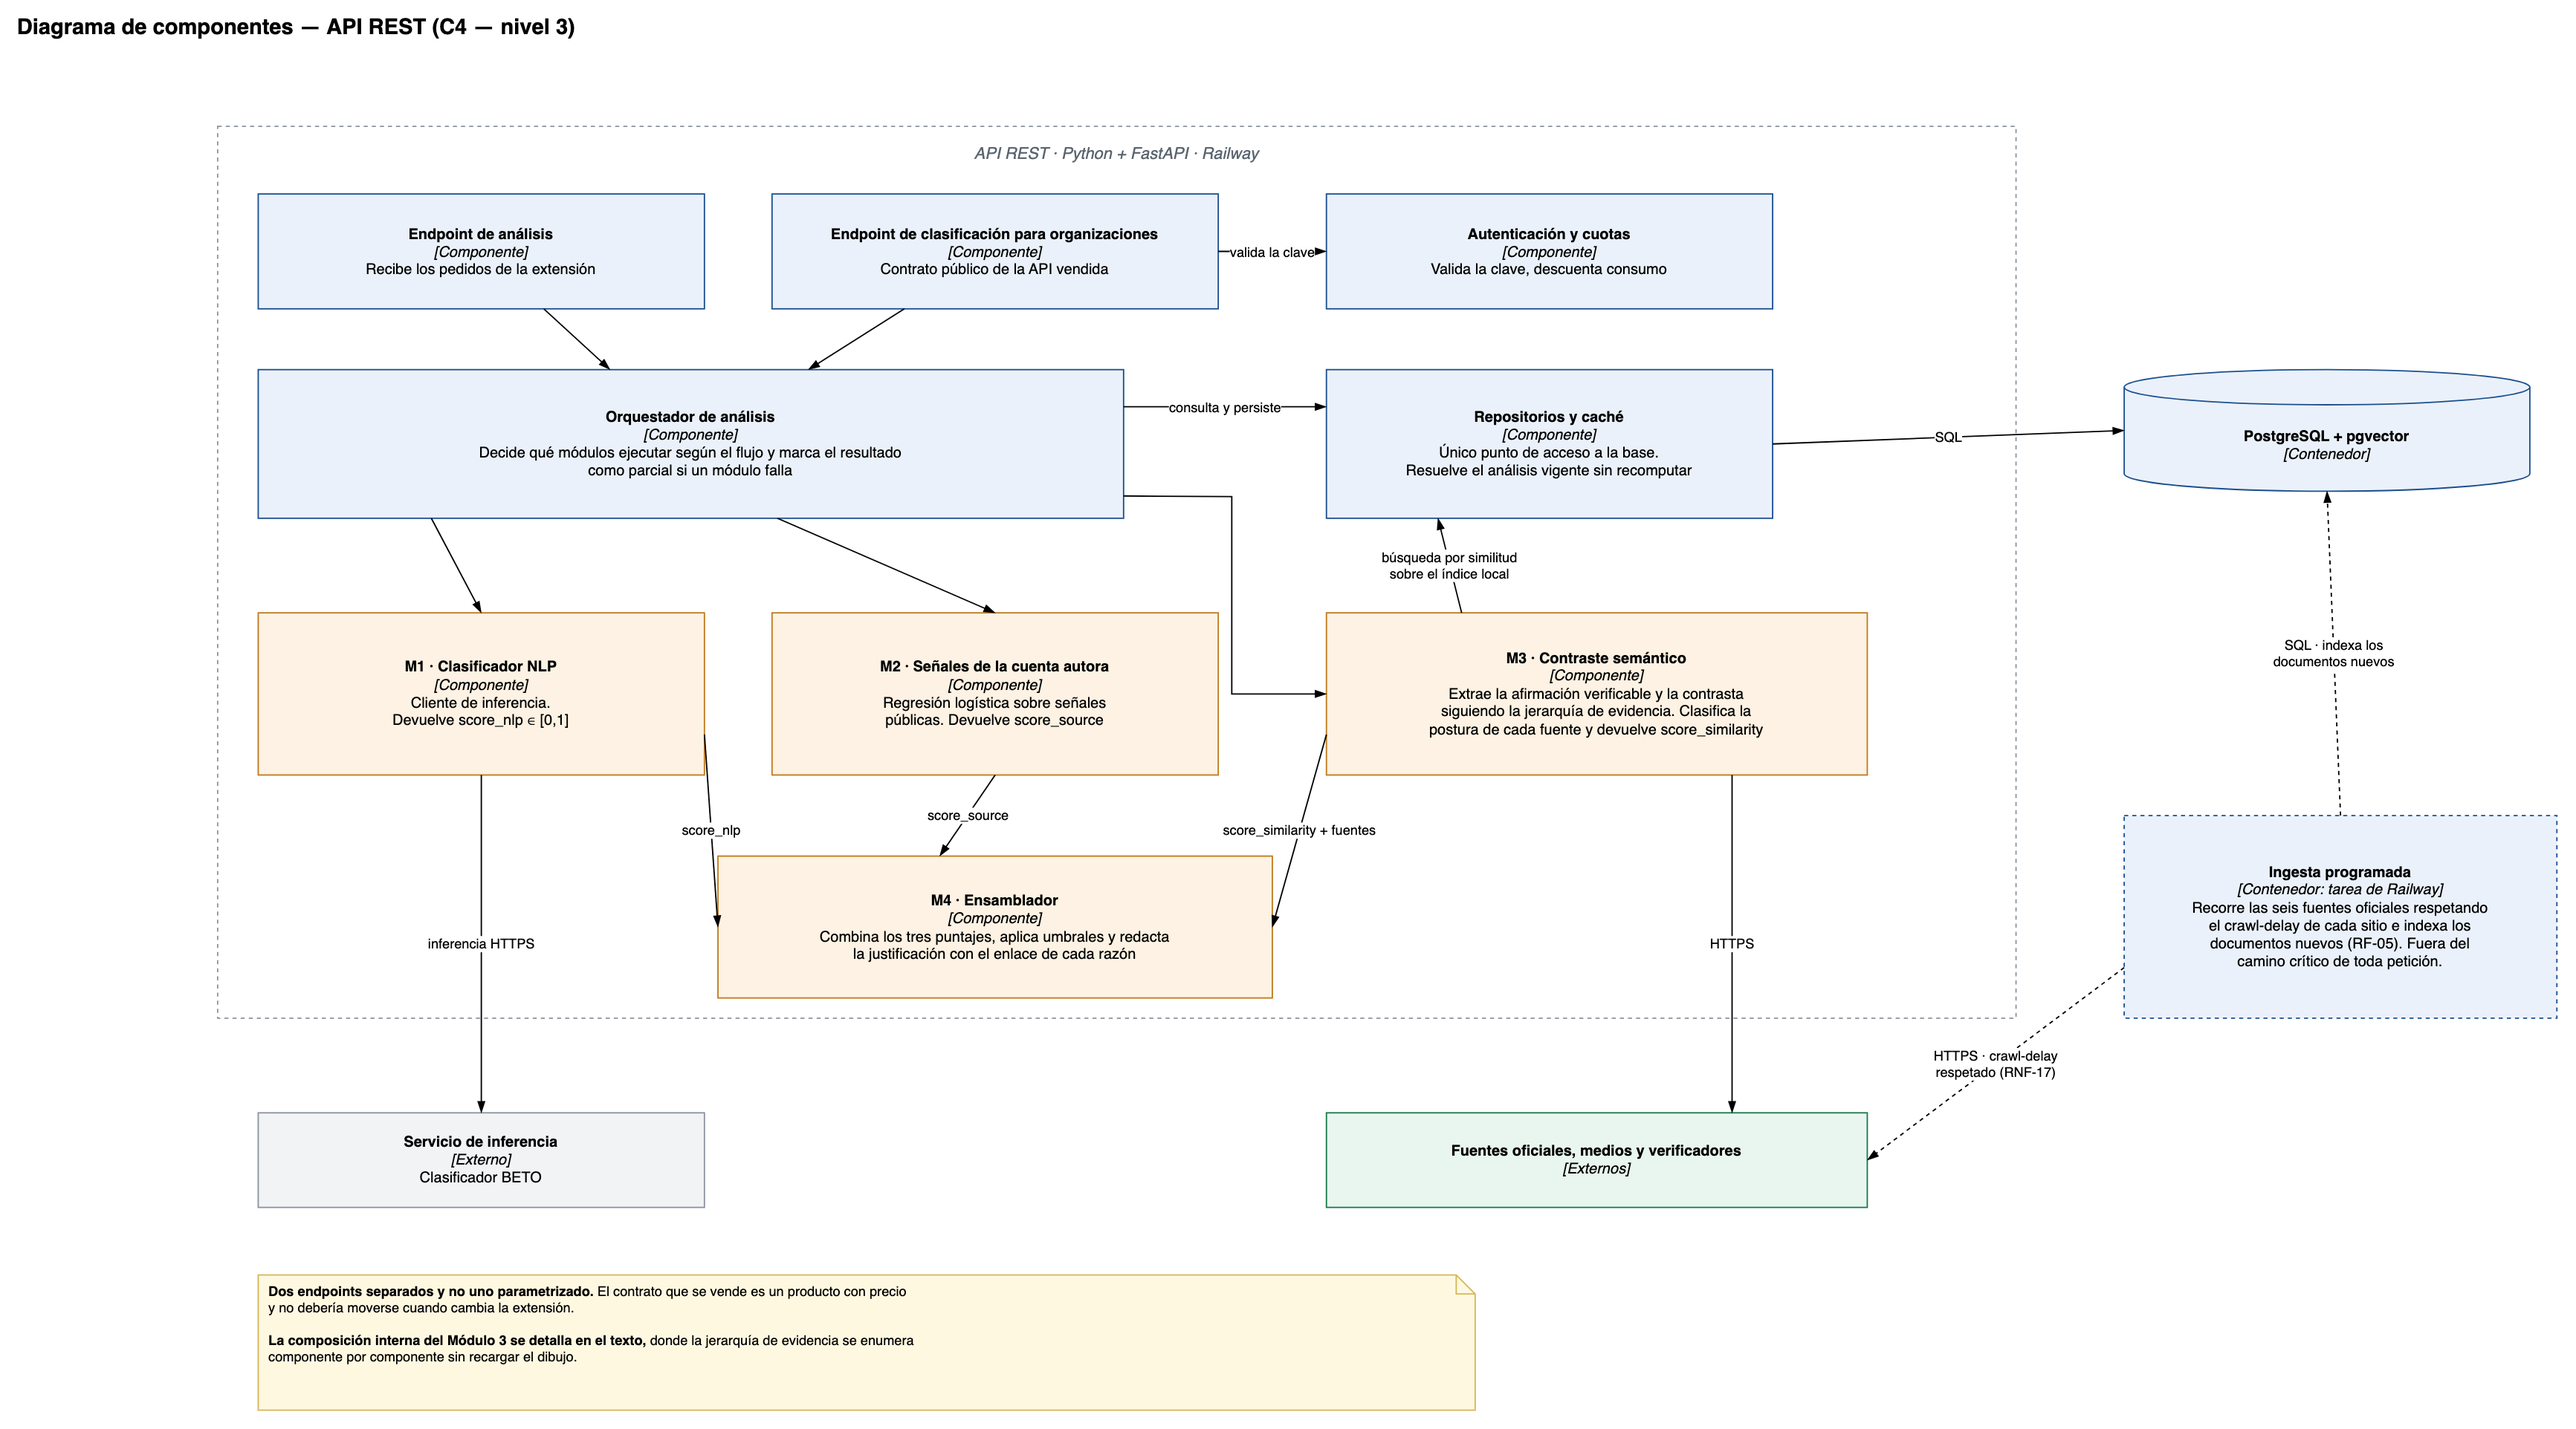
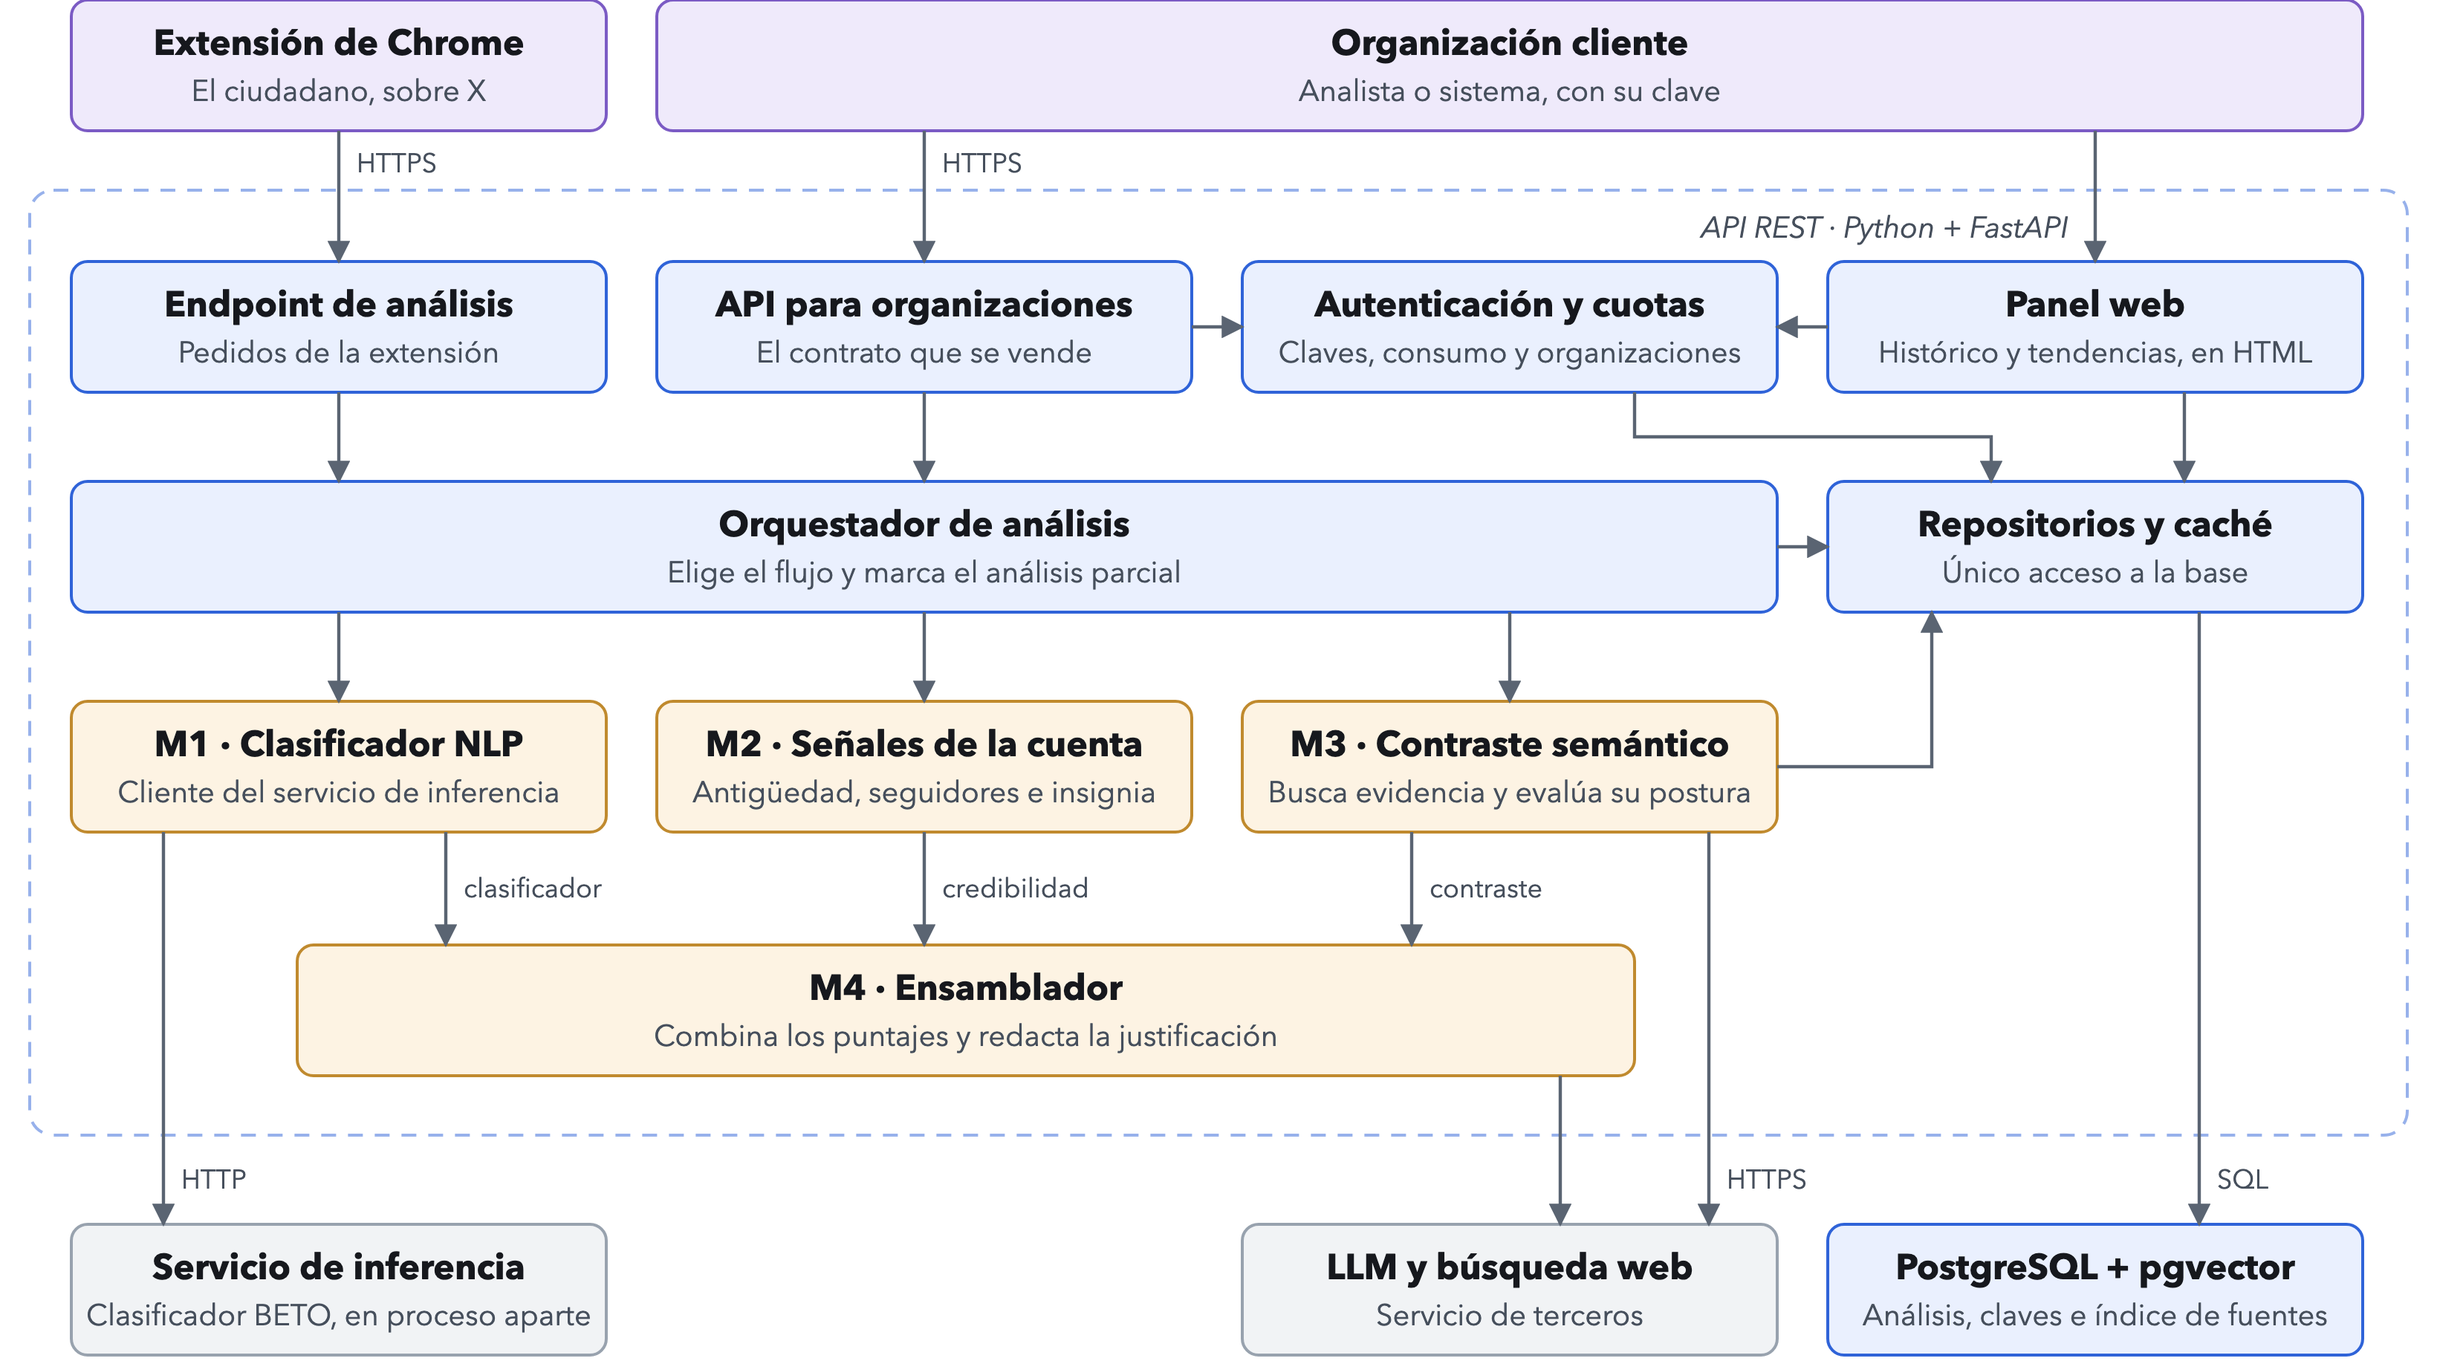
Rehacer el diagrama de componentes en SVG con el estilo de la presentación
- wiki/assets/diagramas/svg/: kit de estilo (README con paleta, tamaños y
  reglas de legibilidad), plantilla y render.sh (Chrome headless, PNG a 2x)
- c4-componentes.svg: tarjetas con título y una línea, sin notas ni título
  interno; BETO como servicio de inferencia aparte, M2 con sus señales,
  panel web y administración de organizaciones dentro de la API
- exportar.py saltea los diagramas que ya tienen su SVG

diff --git a/wiki/assets/diagramas/_tools/exportar.py b/wiki/assets/diagramas/_tools/exportar.py
@@ -27,6 +27,9 @@ if __name__ == "__main__":
     FIGS.mkdir(parents=True, exist_ok=True)
     R.OUT.mkdir(parents=True, exist_ok=True)
     for src in sorted(R.DIAG.glob("*.drawio")):
+        if (R.DIAG / "svg" / f"{src.stem}.svg").exists():
+            print(f"· {src.stem}: lo genera svg/render.sh, se saltea")
+            continue
         tmp = R.render(src, escala="3")
         destino = FIGS / f"{src.stem}.png"
         destino.write_bytes(tmp.read_bytes())

diff --git a/wiki/assets/diagramas/svg/README.md b/wiki/assets/diagramas/svg/README.md
@@ -1,0 +1,85 @@
+# Diagramas en SVG — kit de estilo
+
+Los diagramas del documento se dibujan a mano en SVG con el mismo lenguaje visual que la
+presentación (slide de respaldo «Arquitectura — componentes» en `presentacion/index.html`).
+El `.svg` de esta carpeta es la fuente de verdad; el PNG de `documento/chapters/figures/`
+se genera con `render.sh`. Los `.drawio` de la carpeta de arriba quedan como histórico.
+
+```bash
+wiki/assets/diagramas/svg/render.sh                    # todos los svg/*.svg (no los que empiezan con _)
+wiki/assets/diagramas/svg/render.sh c4-componentes     # uno o varios por nombre
+```
+
+Usa Chrome *headless* (sin dependencias extra): la ventana mide exactamente el `viewBox`
+y la captura sale a 2× (p. ej. 1640×916 → 3280×1832 px), sin márgenes que recortar.
+Para empezar uno nuevo, copiar `_plantilla.svg`.
+
+## Tamaño: por qué estos números
+
+La figura se incluye a `\textwidth` (16 cm = 453 pt en A4 con los márgenes del template)
+o, en `landscape`, a `0.95\linewidth` (≈ 652 pt). Se fija el ancho del `viewBox` para
+que **1 px del SVG ≈ 0,39 pt impreso** en los dos casos:
+
+| Orientación | Ancho del `viewBox` | Alto máximo | Inclusión en LaTeX |
+|---|---|---|---|
+| Vertical | **1160** | ~1500 | `width=\linewidth` |
+| Apaisada (`landscape`) | **1640** | ~1000 | `width=0.95\linewidth` |
+
+| Elemento | Tamaño | Impreso |
+|---|---|---|
+| Título de tarjeta (negrita) | 24 px | ≈ 9,4 pt |
+| Descripción de tarjeta | 20 px | ≈ 7,8 pt |
+| Nombre del contenedor (itálica) | 20 px | ≈ 7,8 pt |
+| Etiqueta de flecha (**mínimo absoluto**) | 18 px | ≈ 7,0 pt |
+
+Ningún texto por debajo de 18 px. Si no entra, se saca texto o se parte el diagrama;
+no se achica la letra.
+
+## Paleta (relleno / borde, por categoría)
+
+| Categoría | Relleno | Borde | Qué representa |
+|---|---|---|---|
+| Actor / cliente | `#EFEAFB` | `#7B5BC4` | Personas, la extensión vista desde afuera, clientes de la API |
+| Propio | `#EAF0FE` | `#2F63D8` | Componentes, contenedores y datos del sistema |
+| Análisis | `#FDF3E3` | `#C08A2E` | Los cuatro módulos (M1–M4) |
+| Fuente confiable | `#E9F5EE` | `#4E9B72` | Fuentes oficiales, medios ADEPA, verificadores |
+| Servicio externo | `#F1F3F5` | `#98A2AE` | Inferencia, LLM, X, cualquier tercero |
+
+Texto: título `#16181D`, descripción y etiquetas `#464F5C`. Flechas `#5A6472`.
+Contenedor del sistema: sin relleno, borde `#2F63D8` punteado `10 8`, opacidad 0,5,
+`rx=16`, nombre en itálica arriba a la derecha. Fondo blanco.
+
+## Geometría
+
+- Tarjeta: `rx=11`, borde 2 px, alto 88 (título en `y+37`, descripción en `y+68`), texto centrado.
+- Ancho de tarjeta típico 340–360 px; separación mínima entre tarjetas 24 px en horizontal
+  y 60 px en vertical (76 px si la arista lleva etiqueta).
+- Padding del contenedor ≥ 28 px; 48 px entre el borde superior y la primera fila, para su nombre.
+- Flechas: `polyline` de 2,2 px, de borde a borde de tarjeta, con el marcador de abajo.
+  Discontinua (`stroke-dasharray="8 6"`) solo para lo asíncrono o fuera del pedido.
+
+```svg
+<defs><marker id="punta" viewBox="0 0 10 10" refX="9" refY="5" markerWidth="7" markerHeight="7"
+  orient="auto-start-reverse"><path d="M0,0 L10,5 L0,10 z" fill="#5A6472"/></marker></defs>
+```
+
+Tipografía en el `<svg>` raíz: `font-family="'Avenir Next','Segoe UI',system-ui,Helvetica,Arial,sans-serif"`.
+
+## Reglas de legibilidad
+
+1. **Título + una línea.** Cada tarjeta lleva un título y como máximo una línea de
+   descripción (≤ ~32 caracteres en 340 px, ≤ ~40 en tarjetas anchas). Sin estereotipos
+   `[Componente]`.
+2. **Sin notas dentro del diagrama.** Nada de notas amarillas ni párrafos: la explicación
+   va en el texto del capítulo.
+3. **Sin título dentro de la imagen.** El `\caption` de LaTeX es el título.
+4. **Sin cruces de aristas.** Si dos se cruzan, se mueve una caja.
+5. **Solo flechas ortogonales**, con el menor número de codos posible.
+6. **Etiquetas de arista mínimas**: una o dos palabras (`HTTPS`, `SQL`, el nombre de un puntaje).
+   No etiquetar lo obvio.
+7. **≤ ~12 cajas** de contenido por diagrama. Si hay más, agrupar o partir en dos figuras.
+   (`c4-componentes` llega a 15 contando los dos actores: es el techo, no la norma.)
+8. **Alinear a una grilla** de columnas y filas; mucho aire.
+
+Antes de commitear: correr `render.sh`, mirar el PNG y la página del PDF compilado a
+tamaño real.

diff --git a/wiki/assets/diagramas/_tools/README.md b/wiki/assets/diagramas/_tools/README.md
@@ -25,3 +25,7 @@ Que cada `source` y cada `target` de cada arista resuelva a un vértice existent
 ## Advertencia
 
 Cinco de ellos (`flujo-informacion`, `secuencia-cu01`, `secuencia-cu02`, `despliegue-red` y `c4-componentes`) se generaron originalmente con un script de layout que **no está versionado acá**. Fue andamiaje de un solo uso: a partir de ahora las correcciones se hacen sobre el `.drawio`, no regenerando. Volver a correr aquel generador pisaría cualquier ajuste manual.
+
+## Diagramas migrados a SVG
+
+Los diagramas que tienen un `svg/<nombre>.svg` se generan con `svg/render.sh` (ver `svg/README.md`), y `exportar.py` los saltea para no pisar su PNG. El `.drawio` correspondiente queda como histórico.
